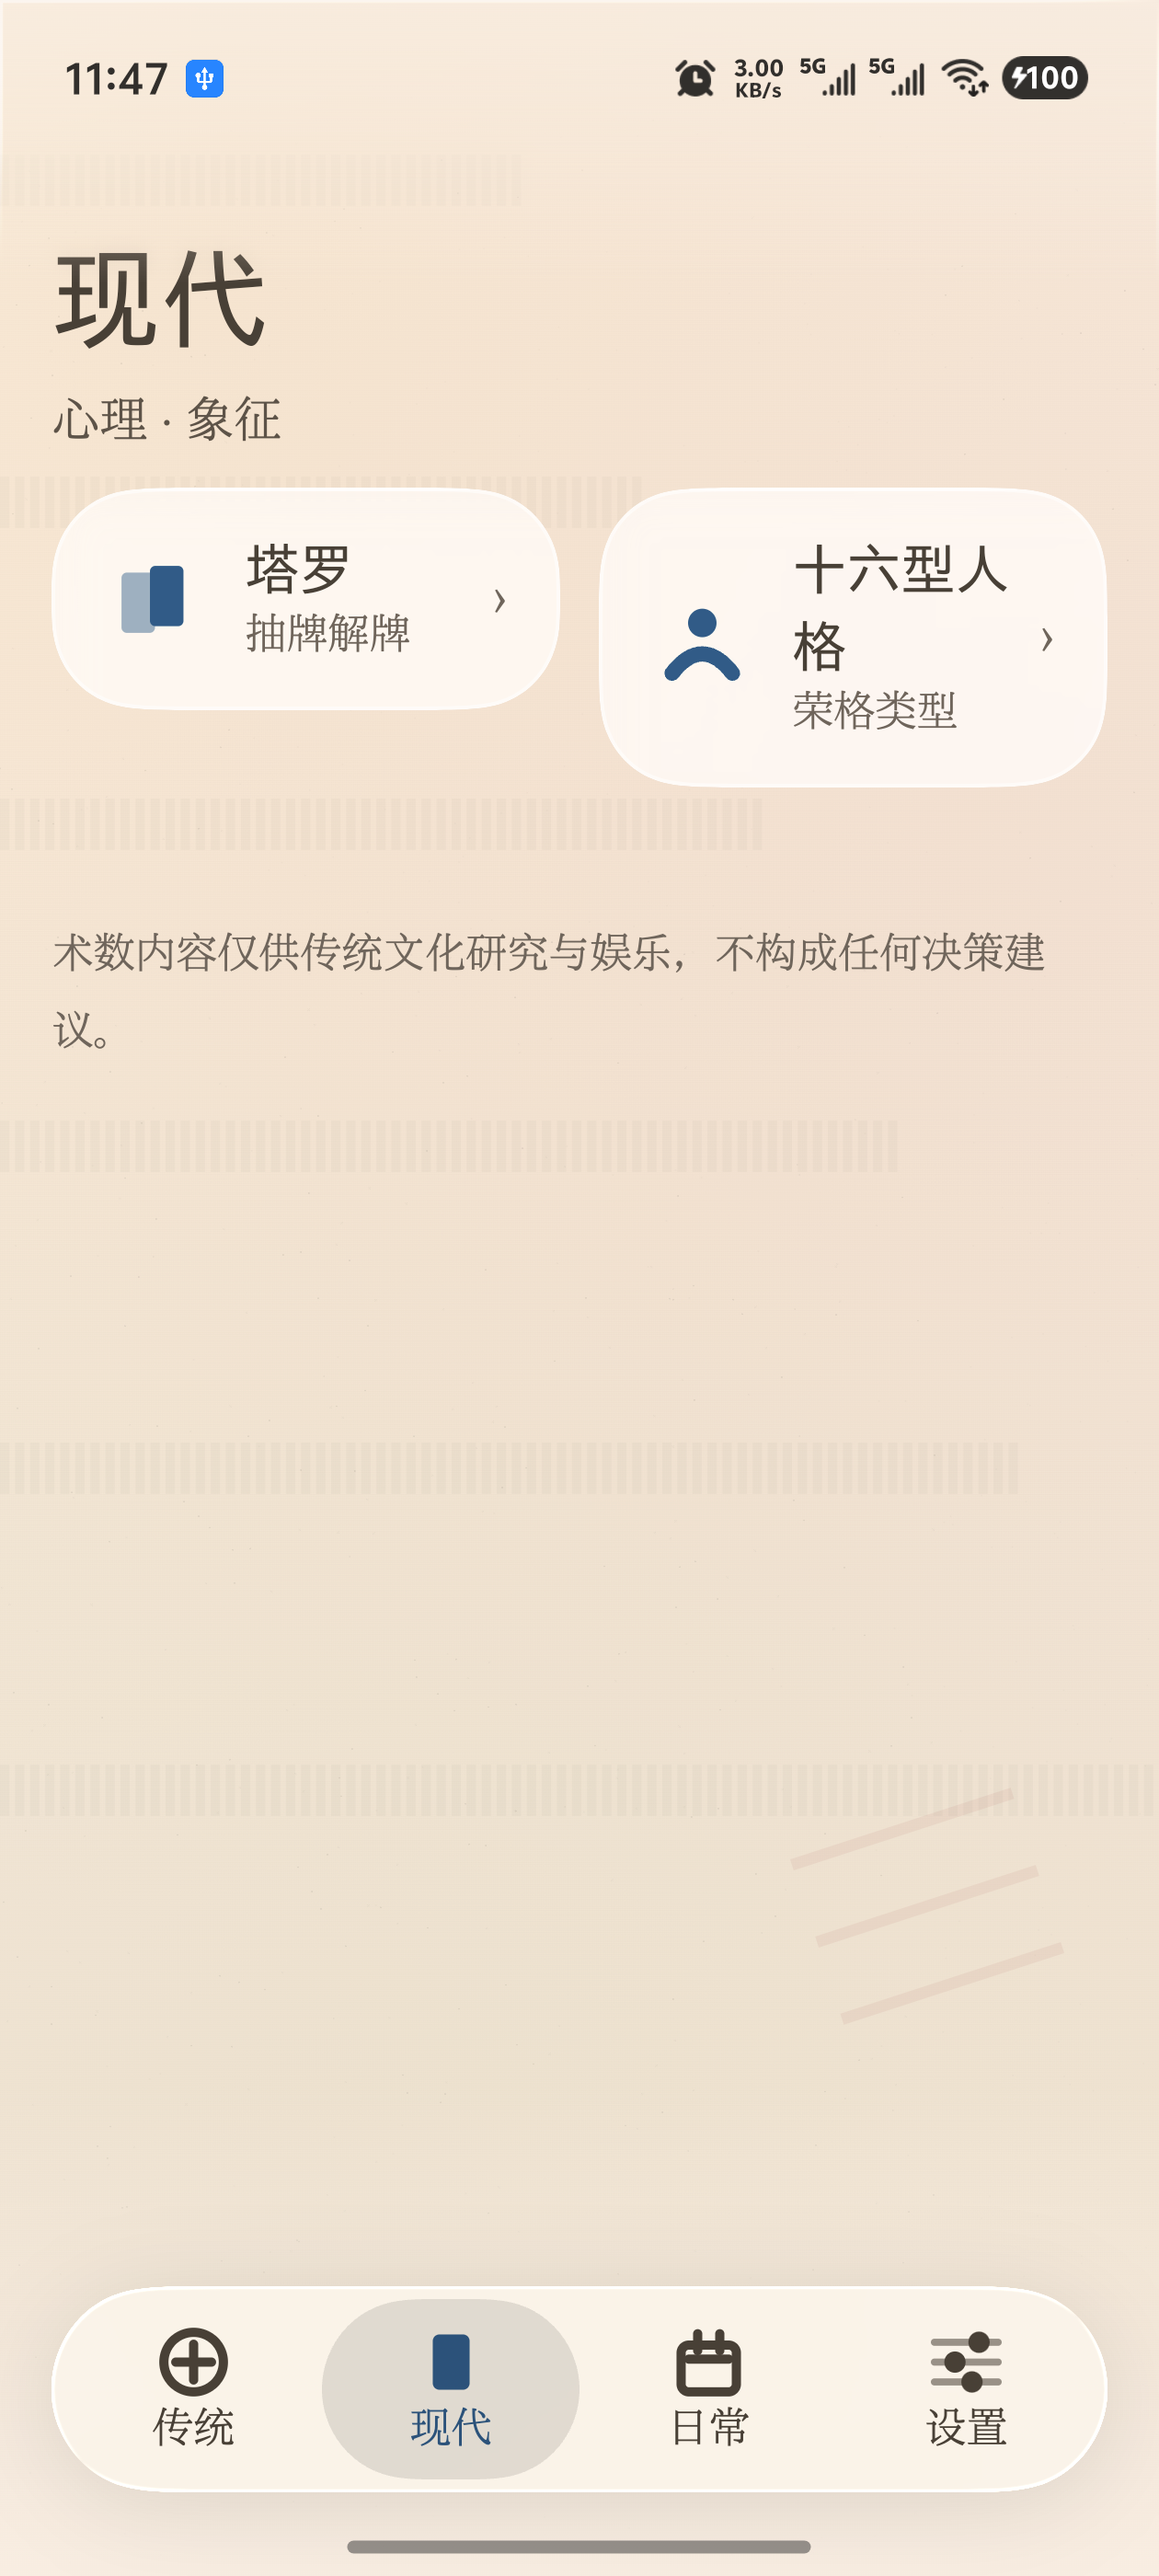
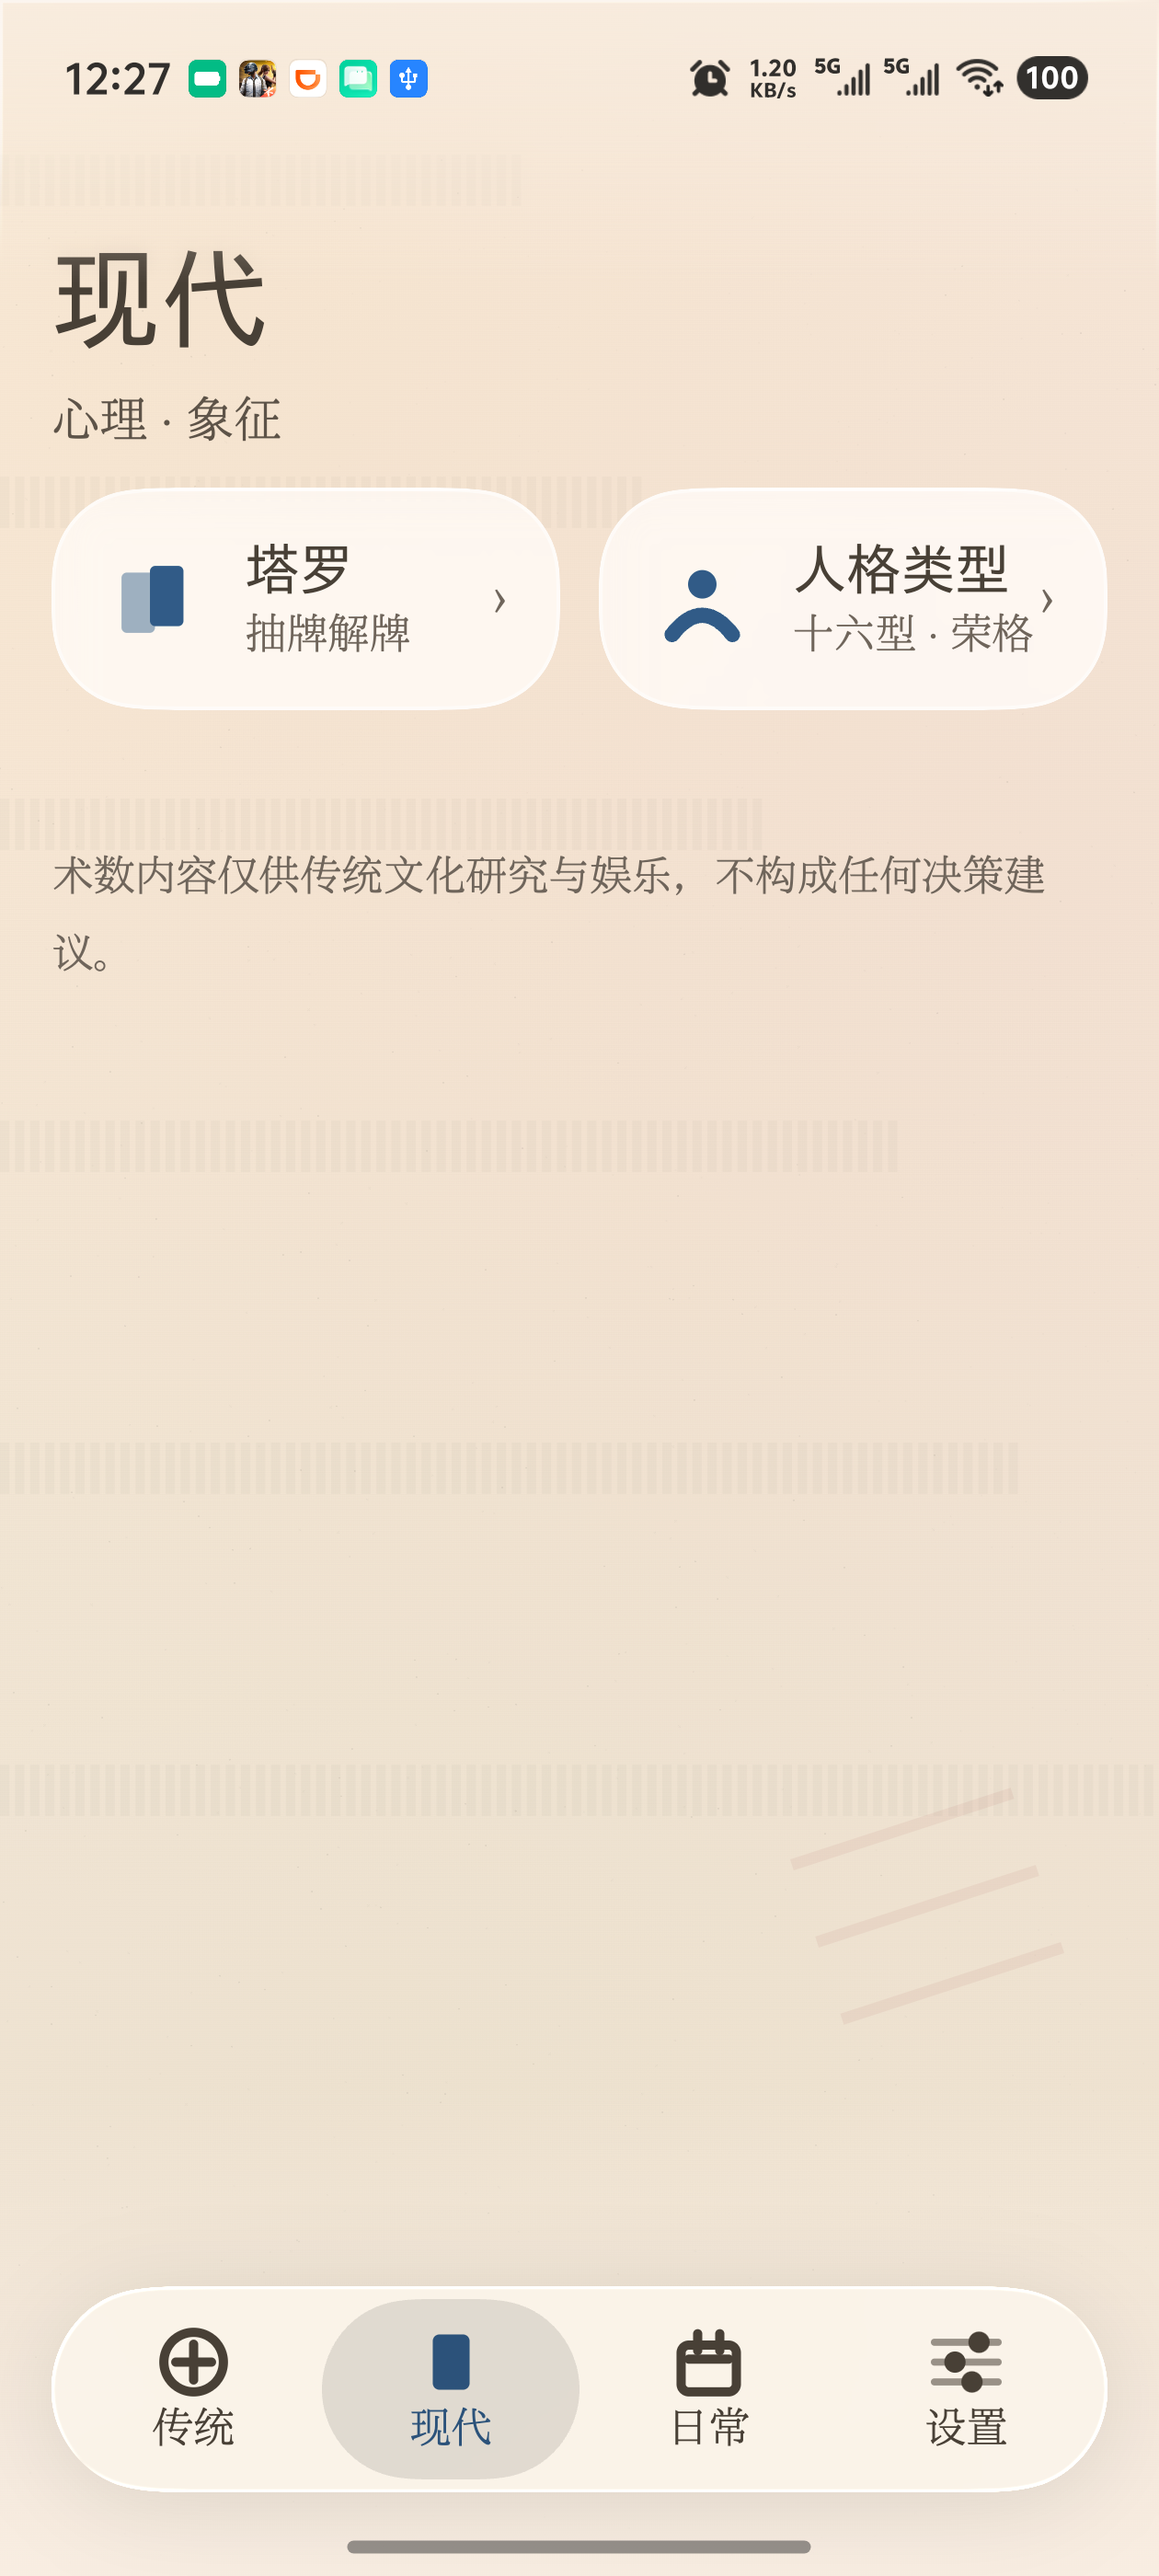
fix(board): 系统卡片标题不再中途断行
现象：现代板块里「十六型人格」被切成「十六型人 / 格」，
而旁边「塔罗」一行放得下 —— 看着像排版坏了。

原因：MagicSystemCard 的标题 Text 没有任何行数约束。
中文可在任意字符处断行，5 个字的标题在卡片可用宽度（约 4 字）里就被切成 4+1。

改法（两层）
1. MagicSystemCard 标题加 `maxLines = 1` + `TextOverflow.Ellipsis`，
   且 5 字以上降一档字号（body → footnote）。
   **这是根治**：以后再加长名字的术数系统，最坏情况是省略号，不会断行。
2. 顺手把「十六型人格」改名为「人格类型」，副标题「十六型 · 荣格」。
   不依赖截断，直接放得下。

为什么不用 TextAutoSize 自动缩排：该 API 在不同 Compose 版本上行为有差异，
而卡片标题只有十来个固定字符串，按长度分两档字号更可预测。

真机验证：现代板块两卡标题均单行，与图标/箭头基线对齐。

diff --git a/designsystem/src/main/java/com/maohongyuan/magic/designsystem/glass/MagicSystemCard.kt b/designsystem/src/main/java/com/maohongyuan/magic/designsystem/glass/MagicSystemCard.kt
@@ -18,6 +18,7 @@ import androidx.compose.ui.Alignment
 import androidx.compose.ui.Modifier
 import androidx.compose.ui.draw.clip
 import androidx.compose.ui.text.font.FontWeight
+import androidx.compose.ui.text.style.TextOverflow
 import androidx.compose.ui.unit.dp
 import androidx.compose.ui.unit.sp
 import com.maohongyuan.magic.designsystem.theme.MagicShapes
@@ -80,7 +81,12 @@ fun MagicSystemCard(
             ) {
                 Text(
                     text = title,
-                    fontSize = MagicType.body.sp,
+                    // 长名字（5 字以上）降一档字号 + 单行截断。
+                    // 原来不限制：中文会任意处断行，「十六型人格」被切成
+                    // 「十六型人 / 格」，看着像排版坏了。
+                    fontSize = if (title.length >= 5) MagicType.footnote.sp else MagicType.body.sp,
+                    maxLines = 1,
+                    overflow = TextOverflow.Ellipsis,
                     fontWeight = FontWeight.SemiBold,
                     color = colors.primaryText,
                 )

diff --git a/app/src/main/java/com/maohongyuan/magic/navigation/SystemCatalog.kt b/app/src/main/java/com/maohongyuan/magic/navigation/SystemCatalog.kt
@@ -55,7 +55,7 @@ enum class SystemId(
     // ── 现代 ──
     TAROT("塔罗", "抽牌解牌", MagicTabIcon.SYS_TAROT, AppTab.MODERN),
     // ⚠ 不叫 MBTI —— 那是 The Myers-Briggs Company 的注册商标。
-    MBTI("十六型人格", "荣格类型", MagicTabIcon.SYS_MBTI, AppTab.MODERN),
+    MBTI("人格类型", "十六型 · 荣格", MagicTabIcon.SYS_MBTI, AppTab.MODERN),
 
     // ── 日常 ──
     ALMANAC("黄历", "今日宜忌", MagicTabIcon.SYS_ALMANAC, AppTab.DAILY),
